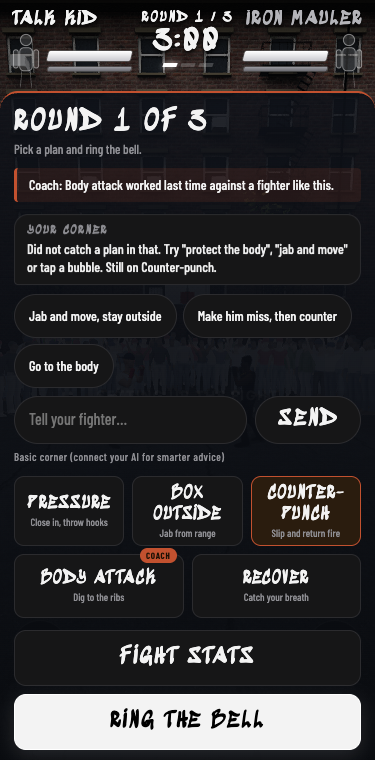
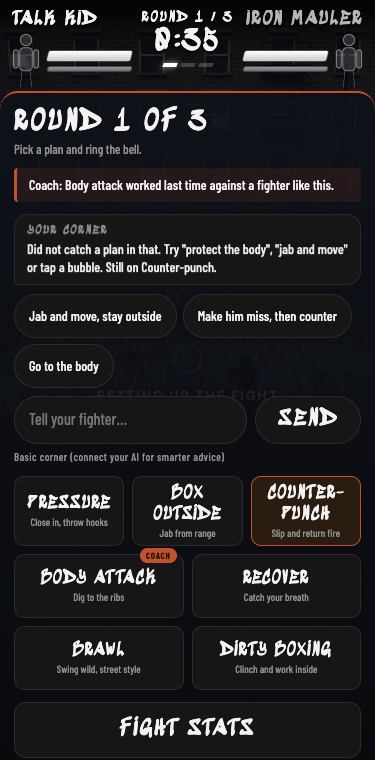
BOX-23 fix: corner talk knows brawl and dirty boxing; blurbs for every sim tactic

Changed region(s): [[0.0293, 0.8171, 0.968, 0.9987], [0.0, 0.0303, 0.7333, 0.1211], [0.792, 0.0303, 1.0, 0.1513]]

diff --git a/public/boxing/corner-ai.js b/public/boxing/corner-ai.js
@@ -3,7 +3,7 @@
 // a plan always resolves to one of the sim's existing tactic keys, chosen at the round break like a button press, so
 // determinism and P2P lockstep are untouched. No model of ours, no key of ours, no server of ours.
 
-export const TACTIC_KEYS = ['pressure', 'outbox', 'counter', 'body_attack', 'recover'];
+export const TACTIC_KEYS = ['pressure', 'outbox', 'counter', 'body_attack', 'recover', 'brawl', 'dirty_boxing'];
 export const FOCUSES = ['none', 'head', 'body'];
 export const AGGRESSIONS = ['low', 'normal', 'high'];
 export const SAY_MAX = 140;
@@ -80,6 +80,8 @@ export function parseBubbles(text) {
 
 const RULES = [
   { re: /\b(recover|rest|breathe|breather|catch your breath|slow down|relax|calm down|tired|gassed|save (your )?(energy|gas))\b/, plan: { tactic: 'recover', focus: 'none', aggression: 'low' } },
+  { re: /\b(brawl|street fight|swing|swinging|haymakers?|overhands?|go wild|throw bombs|slug|slugfest|war)\b/, plan: { tactic: 'brawl', focus: 'head', aggression: 'high' } },
+  { re: /\b(dirty|clinch|tie him up|smother|shove|rough him|grab|elbows?|inside work|get inside|fight inside)\b/, plan: { tactic: 'dirty_boxing', focus: 'body', aggression: 'normal' } },
   { re: /\b(protect|cover|defen[cs]e|defend|guard|hands up|keep your hands|shell|block|survive)\b.*\b(body|ribs|liver|gut|stomach)\b|\b(body|ribs|liver|gut)\b.*\b(protect|cover|defen[cs]e|guard|hands)\b/, plan: { tactic: 'counter', focus: 'body', aggression: 'low' } },
   { re: /\b(body|ribs|liver|gut|stomach|midsection)\b/, plan: { tactic: 'body_attack', focus: 'body', aggression: 'high' } },
   { re: /\b(counter|slip|wait for|patient|patience|make him miss|bait|let him come|return fire)\b/, plan: { tactic: 'counter', focus: 'none', aggression: 'low' } },
@@ -93,6 +95,8 @@ const SAYS = {
   counter: ['Let him come. Slip and fire back.', 'Be patient. Make him miss.'],
   body_attack: ['Dig to the ribs. Break him down.', 'Go downstairs, then up top.'],
   pressure: ['Walk him down. Throw the hooks.', 'Press him. Do not let him breathe.'],
+  brawl: ['Swing for the fences. This is a street fight.', 'Throw bombs. Make it ugly.'],
+  dirty_boxing: ['Get inside, tie him up, work close.', 'Smother him. Rough him up inside.'],
 };
 const sayFor = (plan, round) => SAYS[plan.tactic][(round ?? 0) % SAYS[plan.tactic].length];
 
@@ -166,6 +170,8 @@ export const TACTIC_HELP = {
   counter: 'defend first, slip and return fire, low output',
   body_attack: 'work the body with hooks and body shots',
   recover: 'low output at long range to win back stamina',
+  brawl: 'wild street fight: overhands, haymakers, shoves and taunts, high output',
+  dirty_boxing: 'fight at close quarters: clinch, shove, short uppercuts and body hooks',
 };
 
 export function plannerMessages(ctx, playerText) {

diff --git a/test/corner-ai.test.js b/test/corner-ai.test.js
@@ -3,7 +3,7 @@
 import { test } from 'node:test';
 import assert from 'node:assert/strict';
 import { FighterModel, CombatSimulation, TACTICS } from '../public/boxing/physics-engine.js';
-import { emptyDamage, recordDamage } from '../public/boxing/flow.js';
+import { emptyDamage, recordDamage, TACTIC_BLURB } from '../public/boxing/flow.js';
 import {
   TACTIC_KEYS, PLAN_SCHEMA, validatePlan, extractJSON, parsePlan, parseBubbles, keywordPlan, resolveTactic, buildContext, suggestBubbles,
   normalizeAI, publicAI, sourceLabel, aiReady, listModels, askModel, testConnection, planFromText, aiBubbles, AI_KINDS, plannerMessages,
@@ -17,6 +17,11 @@ const ctxOf = (over = {}) => {
   });
   return { ...base, ...over, you: { ...base.you, ...over.you }, opponent: { ...base.opponent, ...over.opponent } };
 };
+
+test('every sim tactic has a blurb and a trainer line, so a new tactic cannot show as undefined', () => {
+  for (const k of Object.keys(TACTICS)) assert.ok(TACTIC_BLURB[k], `blurb for ${k}`);
+  for (const k of Object.keys(TACTICS)) assert.ok(keywordPlan({ recover: 'rest', outbox: 'jab', counter: 'counter', body_attack: 'body', pressure: 'pressure', brawl: 'brawl', dirty_boxing: 'clinch' }[k]).say);
+});
 
 test('the schema lists exactly the sim tactics, and every tactic key exists in the sim', () => {
   assert.deepEqual(PLAN_SCHEMA.properties.tactic.enum, Object.keys(TACTICS));
@@ -70,6 +75,8 @@ test('keyword fallback maps phrases to the right plan', () => {
   assert.equal(t('get on the outside'), 'outbox');
   assert.equal(t('walk him down, finish him'), 'pressure');
   assert.equal(t('catch your breath'), 'recover');
+  assert.equal(t('swing for the fences, brawl'), 'brawl');
+  assert.equal(t('tie him up and clinch'), 'dirty_boxing');
   assert.equal(t('you look tired, rest'), 'recover');
   assert.equal(keywordPlan('what is the weather'), null);
   assert.equal(keywordPlan(''), null);

diff --git a/public/boxing/flow.js b/public/boxing/flow.js
@@ -154,6 +154,8 @@ export const TACTIC_BLURB = {
   counter: 'Slip and return fire',
   body_attack: 'Dig to the ribs',
   recover: 'Catch your breath',
+  brawl: 'Swing wild, street style',
+  dirty_boxing: 'Clinch and work inside',
 };
 
 // ─── Settings ───────────────────────────────────────────────────────────────
